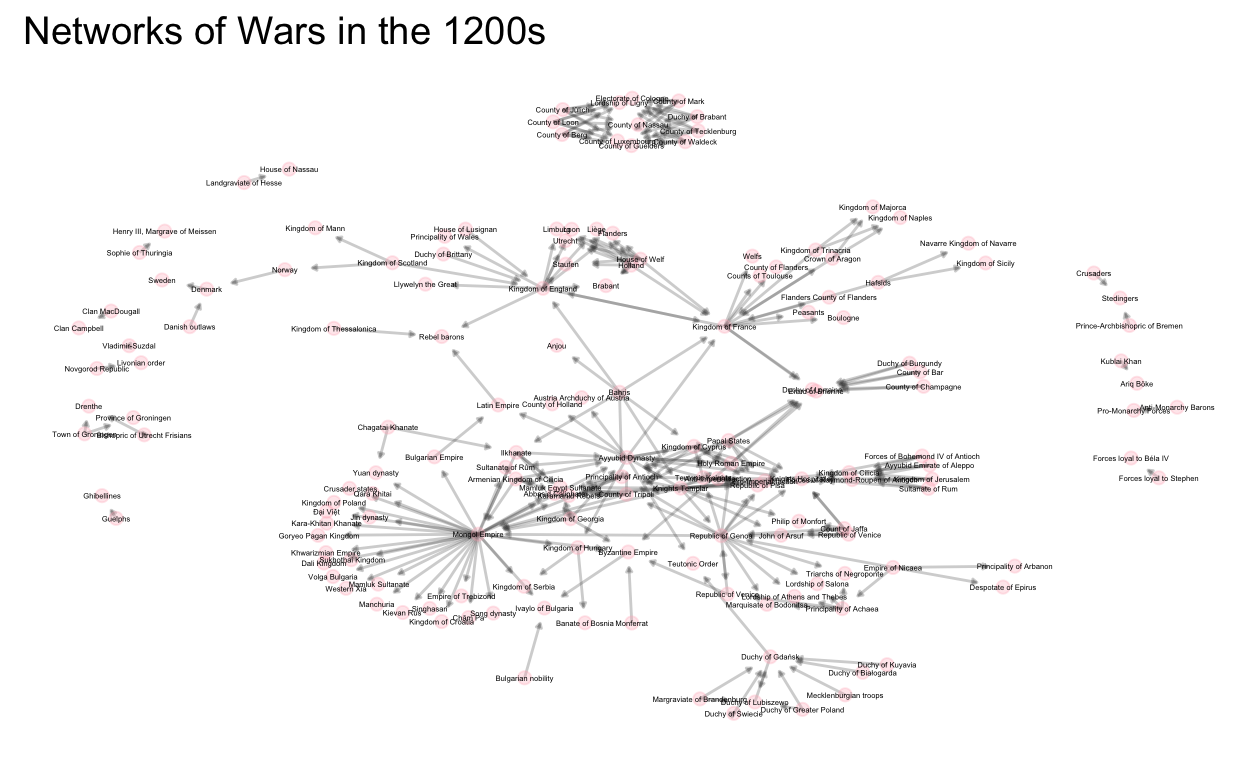
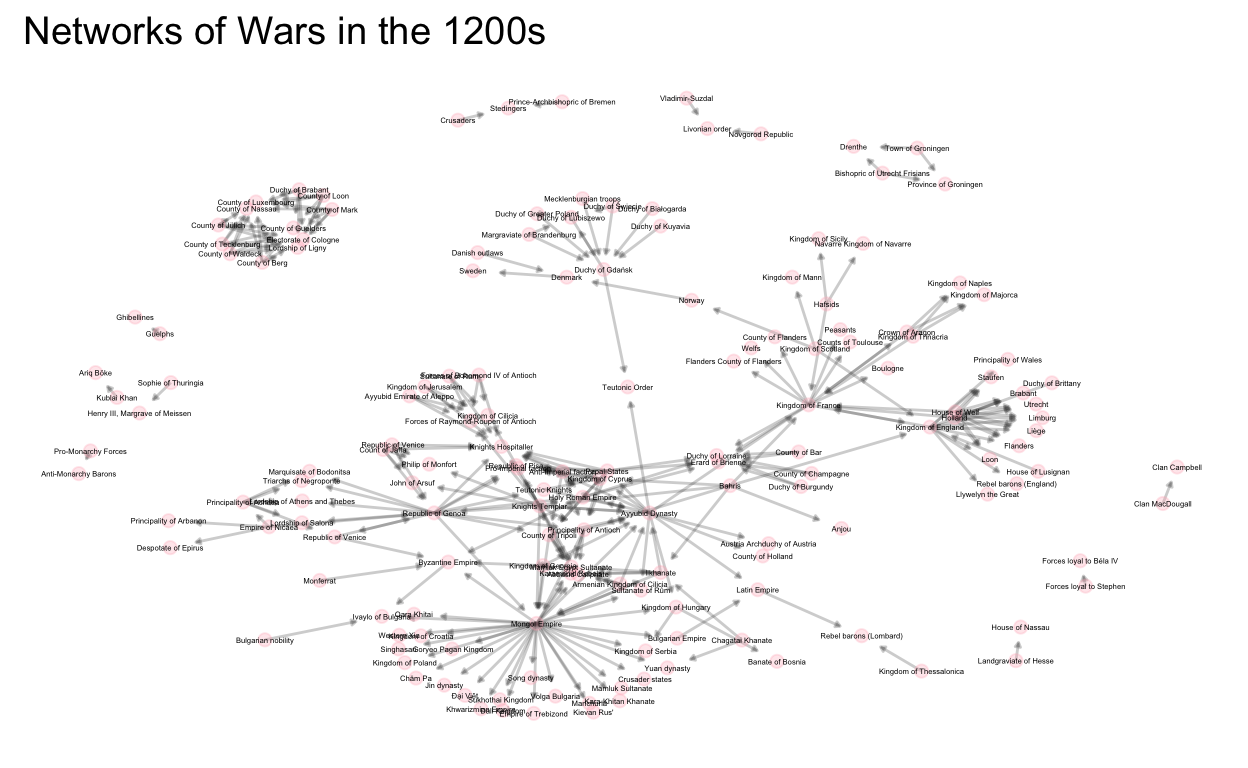
😵💫😵💫😵💫

diff --git a/docs/_posts/2022-02-21-week-5-interpretaive-assignment/week-5-interpretaive-assignment.html b/docs/_posts/2022-02-21-week-5-interpretaive-assignment/week-5-interpretaive-assignment.html
@@ -1582,7 +1582,7 @@ No edge attributes</code></pre>
 Structure: Wars Startings in the 1200s</h3>
 <div class="layout-chunk" data-layout="l-body">
 <pre><code> Network attributes:
-  vertices = 161 
+  vertices = 162 
   directed = TRUE 
   hyper = FALSE 
   loops = FALSE 
@@ -1902,83 +1902,83 @@ wars in 1000-1099, 1100-1199, and 1200-1399.</p>
 <tbody>
 <tr class="odd">
 <td style="text-align: left;">Mongol Empire</td>
-<td style="text-align: right;">47.964825</td>
+<td style="text-align: right;">48.379636</td>
 <td style="text-align: right;">NaN</td>
-<td style="text-align: right;">-0.5953457</td>
+<td style="text-align: right;">-0.5944061</td>
 <td style="text-align: right;">NaN</td>
 <td style="text-align: right;">NaN</td>
 </tr>
 <tr class="even">
 <td style="text-align: left;">Kingdom of France</td>
-<td style="text-align: right;">28.663539</td>
+<td style="text-align: right;">28.915776</td>
 <td style="text-align: right;">NaN</td>
-<td style="text-align: right;">-0.5953457</td>
+<td style="text-align: right;">-0.5944061</td>
 <td style="text-align: right;">NaN</td>
 <td style="text-align: right;">NaN</td>
 </tr>
 <tr class="odd">
 <td style="text-align: left;">Ayyubid Dynasty</td>
-<td style="text-align: right;">26.995527</td>
+<td style="text-align: right;">27.233714</td>
 <td style="text-align: right;">NaN</td>
-<td style="text-align: right;">1.6524957</td>
+<td style="text-align: right;">1.6475606</td>
 <td style="text-align: right;">NaN</td>
 <td style="text-align: right;">NaN</td>
 </tr>
 <tr class="even">
 <td style="text-align: left;">Kingdom of England</td>
-<td style="text-align: right;">21.991489</td>
+<td style="text-align: right;">22.187528</td>
 <td style="text-align: right;">NaN</td>
-<td style="text-align: right;">8.3960200</td>
+<td style="text-align: right;">9.1207832</td>
 <td style="text-align: right;">NaN</td>
 <td style="text-align: right;">NaN</td>
 </tr>
 <tr class="odd">
 <td style="text-align: left;">Republic of Genoa</td>
-<td style="text-align: right;">11.983415</td>
+<td style="text-align: right;">12.095156</td>
 <td style="text-align: right;">NaN</td>
-<td style="text-align: right;">-0.5953457</td>
+<td style="text-align: right;">-0.5944061</td>
 <td style="text-align: right;">NaN</td>
 <td style="text-align: right;">NaN</td>
 </tr>
 <tr class="even">
 <td style="text-align: left;">Knights Templar</td>
-<td style="text-align: right;">10.077115</td>
+<td style="text-align: right;">10.172799</td>
 <td style="text-align: right;">NaN</td>
-<td style="text-align: right;">1.6524957</td>
+<td style="text-align: right;">1.6475606</td>
 <td style="text-align: right;">NaN</td>
 <td style="text-align: right;">NaN</td>
 </tr>
 <tr class="odd">
 <td style="text-align: left;">Holy Roman Empire</td>
-<td style="text-align: right;">4.834790</td>
-<td style="text-align: right;">-0.0170801</td>
-<td style="text-align: right;">-0.5948396</td>
-<td style="text-align: right;">10.86552</td>
-<td style="text-align: right;">10.8655226</td>
+<td style="text-align: right;">4.886318</td>
+<td style="text-align: right;">-0.0168705</td>
+<td style="text-align: right;">-0.5939130</td>
+<td style="text-align: right;">10.98895</td>
+<td style="text-align: right;">10.9889530</td>
 </tr>
 <tr class="even">
 <td style="text-align: left;">Principality of Antioch</td>
-<td style="text-align: right;">4.834790</td>
-<td style="text-align: right;">-0.0170801</td>
-<td style="text-align: right;">2.4030361</td>
-<td style="text-align: right;">13.61357</td>
-<td style="text-align: right;">-0.1266480</td>
+<td style="text-align: right;">4.886318</td>
+<td style="text-align: right;">-0.0168705</td>
+<td style="text-align: right;">2.3961055</td>
+<td style="text-align: right;">13.76762</td>
+<td style="text-align: right;">-0.1257267</td>
 </tr>
 <tr class="odd">
 <td style="text-align: left;">Kingdom of Cyprus</td>
-<td style="text-align: right;">4.596503</td>
-<td style="text-align: right;">58.5391124</td>
-<td style="text-align: right;">0.1546293</td>
-<td style="text-align: right;">13.61357</td>
-<td style="text-align: right;">10.8655226</td>
+<td style="text-align: right;">4.646024</td>
+<td style="text-align: right;">59.2666679</td>
+<td style="text-align: right;">0.1535916</td>
+<td style="text-align: right;">13.76762</td>
+<td style="text-align: right;">10.9889530</td>
 </tr>
 <tr class="even">
 <td style="text-align: left;">County of Tripoli</td>
-<td style="text-align: right;">3.643353</td>
+<td style="text-align: right;">3.684845</td>
 <td style="text-align: right;">NaN</td>
-<td style="text-align: right;">0.9035078</td>
-<td style="text-align: right;">19.28056</td>
-<td style="text-align: right;">-0.0898366</td>
+<td style="text-align: right;">0.9005226</td>
+<td style="text-align: right;">19.49749</td>
+<td style="text-align: right;">-0.0891814</td>
 </tr>
 </tbody>
 </table>

diff --git a/docs/posts/2022-02-21-week-5-interpretaive-assignment/index.html b/docs/posts/2022-02-21-week-5-interpretaive-assignment/index.html
@@ -2217,7 +2217,7 @@ No edge attributes</code></pre>
 Structure: Wars Startings in the 1200s</h3>
 <div class="layout-chunk" data-layout="l-body">
 <pre><code> Network attributes:
-  vertices = 161 
+  vertices = 162 
   directed = TRUE 
   hyper = FALSE 
   loops = FALSE 
@@ -2537,83 +2537,83 @@ wars in 1000-1099, 1100-1199, and 1200-1399.</p>
 <tbody>
 <tr class="odd">
 <td style="text-align: left;">Mongol Empire</td>
-<td style="text-align: right;">47.964825</td>
+<td style="text-align: right;">48.379636</td>
 <td style="text-align: right;">NaN</td>
-<td style="text-align: right;">-0.5953457</td>
+<td style="text-align: right;">-0.5944061</td>
 <td style="text-align: right;">NaN</td>
 <td style="text-align: right;">NaN</td>
 </tr>
 <tr class="even">
 <td style="text-align: left;">Kingdom of France</td>
-<td style="text-align: right;">28.663539</td>
+<td style="text-align: right;">28.915776</td>
 <td style="text-align: right;">NaN</td>
-<td style="text-align: right;">-0.5953457</td>
+<td style="text-align: right;">-0.5944061</td>
 <td style="text-align: right;">NaN</td>
 <td style="text-align: right;">NaN</td>
 </tr>
 <tr class="odd">
 <td style="text-align: left;">Ayyubid Dynasty</td>
-<td style="text-align: right;">26.995527</td>
+<td style="text-align: right;">27.233714</td>
 <td style="text-align: right;">NaN</td>
-<td style="text-align: right;">1.6524957</td>
+<td style="text-align: right;">1.6475606</td>
 <td style="text-align: right;">NaN</td>
 <td style="text-align: right;">NaN</td>
 </tr>
 <tr class="even">
 <td style="text-align: left;">Kingdom of England</td>
-<td style="text-align: right;">21.991489</td>
+<td style="text-align: right;">22.187528</td>
 <td style="text-align: right;">NaN</td>
-<td style="text-align: right;">8.3960200</td>
+<td style="text-align: right;">9.1207832</td>
 <td style="text-align: right;">NaN</td>
 <td style="text-align: right;">NaN</td>
 </tr>
 <tr class="odd">
 <td style="text-align: left;">Republic of Genoa</td>
-<td style="text-align: right;">11.983415</td>
+<td style="text-align: right;">12.095156</td>
 <td style="text-align: right;">NaN</td>
-<td style="text-align: right;">-0.5953457</td>
+<td style="text-align: right;">-0.5944061</td>
 <td style="text-align: right;">NaN</td>
 <td style="text-align: right;">NaN</td>
 </tr>
 <tr class="even">
 <td style="text-align: left;">Knights Templar</td>
-<td style="text-align: right;">10.077115</td>
+<td style="text-align: right;">10.172799</td>
 <td style="text-align: right;">NaN</td>
-<td style="text-align: right;">1.6524957</td>
+<td style="text-align: right;">1.6475606</td>
 <td style="text-align: right;">NaN</td>
 <td style="text-align: right;">NaN</td>
 </tr>
 <tr class="odd">
 <td style="text-align: left;">Holy Roman Empire</td>
-<td style="text-align: right;">4.834790</td>
-<td style="text-align: right;">-0.0170801</td>
-<td style="text-align: right;">-0.5948396</td>
-<td style="text-align: right;">10.86552</td>
-<td style="text-align: right;">10.8655226</td>
+<td style="text-align: right;">4.886318</td>
+<td style="text-align: right;">-0.0168705</td>
+<td style="text-align: right;">-0.5939130</td>
+<td style="text-align: right;">10.98895</td>
+<td style="text-align: right;">10.9889530</td>
 </tr>
 <tr class="even">
 <td style="text-align: left;">Principality of Antioch</td>
-<td style="text-align: right;">4.834790</td>
-<td style="text-align: right;">-0.0170801</td>
-<td style="text-align: right;">2.4030361</td>
-<td style="text-align: right;">13.61357</td>
-<td style="text-align: right;">-0.1266480</td>
+<td style="text-align: right;">4.886318</td>
+<td style="text-align: right;">-0.0168705</td>
+<td style="text-align: right;">2.3961055</td>
+<td style="text-align: right;">13.76762</td>
+<td style="text-align: right;">-0.1257267</td>
 </tr>
 <tr class="odd">
 <td style="text-align: left;">Kingdom of Cyprus</td>
-<td style="text-align: right;">4.596503</td>
-<td style="text-align: right;">58.5391124</td>
-<td style="text-align: right;">0.1546293</td>
-<td style="text-align: right;">13.61357</td>
-<td style="text-align: right;">10.8655226</td>
+<td style="text-align: right;">4.646024</td>
+<td style="text-align: right;">59.2666679</td>
+<td style="text-align: right;">0.1535916</td>
+<td style="text-align: right;">13.76762</td>
+<td style="text-align: right;">10.9889530</td>
 </tr>
 <tr class="even">
 <td style="text-align: left;">County of Tripoli</td>
-<td style="text-align: right;">3.643353</td>
+<td style="text-align: right;">3.684845</td>
 <td style="text-align: right;">NaN</td>
-<td style="text-align: right;">0.9035078</td>
-<td style="text-align: right;">19.28056</td>
-<td style="text-align: right;">-0.0898366</td>
+<td style="text-align: right;">0.9005226</td>
+<td style="text-align: right;">19.49749</td>
+<td style="text-align: right;">-0.0891814</td>
 </tr>
 </tbody>
 </table>
